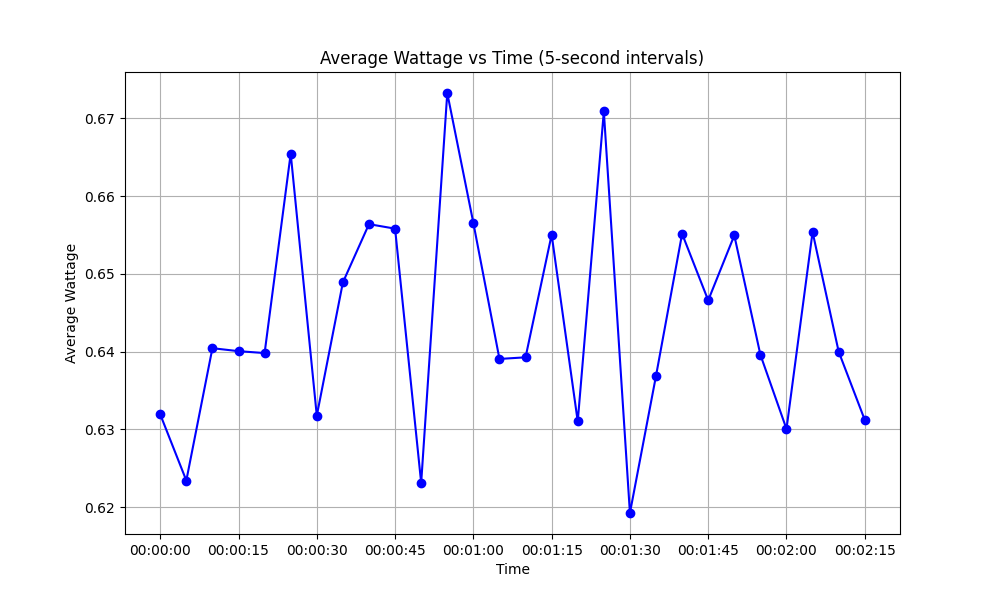
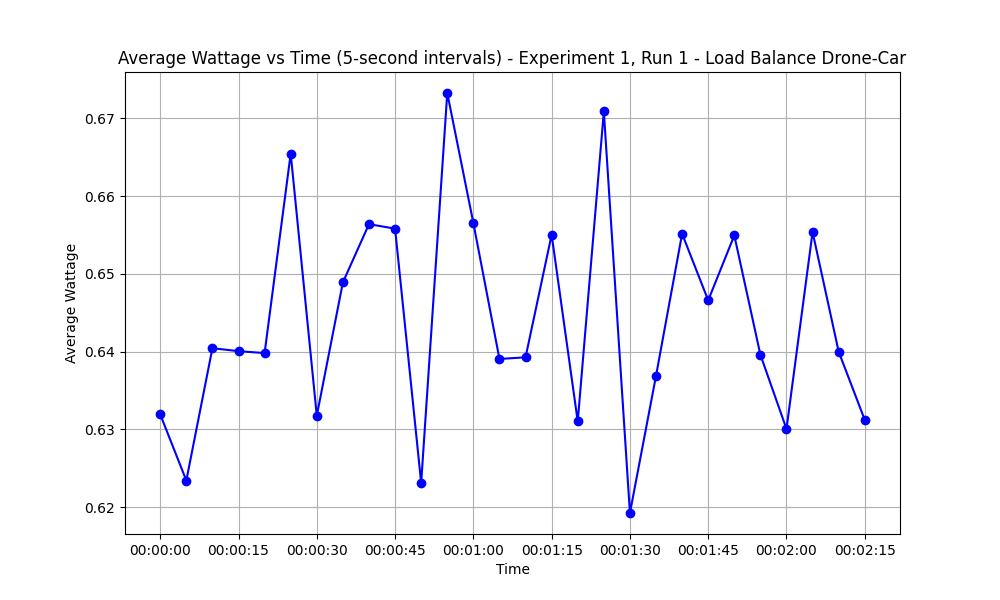
updated graphs

Changed region(s): [[0.124, 0.09, 0.899, 0.12]]

diff --git a/Experiment Data Analysis/Experiment 1 - load balance - 7 objects - red-yellow-blue/run 2/battery_wattage_filtering.py b/Experiment Data Analysis/Experiment 1 - load balance - 7 objects - red-yellow-blue/run 2/battery_wattage_filtering.py
@@ -5,7 +5,8 @@ from matplotlib.ticker import FormatStrFormatter
 #part 1: filter
 
 # Define the path to the input CSV file
-csv_file_path = r"C:\Users\demet\Documents\GitHub\Drone-Car-Collaboration\Experiment Data Analysis\filtering\battery_data.csv"
+csv_file_path = r"C:\Users\demet\Documents\GitHub\Drone-Car-Collaboration\Experiment Data Analysis\Experiment 1 - load balance - 7 objects - red-yellow-blue\run 2\battery_data_2023-07-23_13-30-37.csv"
+
 
 # Read the CSV file into a pandas DataFrame
 df = pd.read_csv(csv_file_path)
@@ -22,7 +23,7 @@ initial_timestamp = filtered_df.loc[0, 'Stamp_secs'] + filtered_df.loc[0, 'Stamp
 filtered_df['Timestamp'] = filtered_df.apply(lambda row: (row['Stamp_secs'] + row['Stamp_nsecs'] * 1e-9) - initial_timestamp, axis=1)
 
 # Define the path to the output CSV file
-output_csv_file_path = r"C:\Users\demet\Documents\GitHub\Drone-Car-Collaboration\Experiment Data Analysis\filtering\filtered_data_with_wattage.csv"
+output_csv_file_path =r"C:\Users\demet\Documents\GitHub\Drone-Car-Collaboration\Experiment Data Analysis\Experiment 1 - load balance - 7 objects - red-yellow-blue\run 2\battery_data_2023-07-23_13-30-37-FILTERED.csv"
 
 # Save the filtered data with adjusted timestamps and wattage to the output CSV file
 adjusted_filtered_df = filtered_df[['Seq', 'Timestamp', 'Wattage']]  # Select relevant columns
@@ -42,7 +43,7 @@ plt.figure(figsize=(10, 6))
 plt.plot(adjusted_filtered_df['Timestamp'], adjusted_filtered_df['Wattage'], marker='o', linestyle='-', color='b')
 plt.xlabel('Time (seconds)')
 plt.ylabel('Wattage')
-plt.title('Wattage vs Time')
+plt.title('Wattage vs Time - Experiment 1, Run 2 - Load Balance Drone-Car')
 plt.grid()
 
 # Format x and y tick labels with 4 decimal places
@@ -68,7 +69,7 @@ plt.figure(figsize=(10, 6))
 plt.plot(resampled_df.index, resampled_df['Wattage'], marker='o', linestyle='-', color='b')
 plt.xlabel('Time')
 plt.ylabel('Average Wattage')
-plt.title('Average Wattage vs Time (5-second intervals)')
+plt.title('Average Wattage vs Time (5-second intervals) - Experiment 1, Run 2 - Load Balance Drone-Car')
 plt.grid()
 
 # Format x tick labels with date and time format

diff --git a/Experiment Data Analysis/Experiment 1 - load balance - 7 objects - red-yellow-blue/run 2/ping_rtt_filtering.py b/Experiment Data Analysis/Experiment 1 - load balance - 7 objects - red-yellow-blue/run 2/ping_rtt_filtering.py
@@ -34,7 +34,7 @@ def read_rtt_data(file_path):
     return rtt_min_values, rtt_avg_values, rtt_max_values
 
 # File path (Please change this to the actual location of your data file)
-file_path = "C:\\Users\\demet\\Documents\\GitHub\\Drone-Car-Collaboration\\Experiment Data Analysis\\filtering\\ping_rtt_data.txt"
+file_path = r"C:\Users\demet\Documents\GitHub\Drone-Car-Collaboration\Experiment Data Analysis\Experiment 1 - load balance - 7 objects - red-yellow-blue\run 2\ping_results_2023-07-23_12-42-02.txt"
 
 # Read RTT data
 rtt_min, rtt_avg, rtt_max = read_rtt_data(file_path)
@@ -53,7 +53,7 @@ plt.plot(agg_rtt_avg, label='Avg RTT (Aggregated)')
 
 plt.xlabel('Ping Index (Aggregated)')
 plt.ylabel('RTT (ms)')
-plt.title('Aggregated RTT Data Analysis')
+plt.title('Aggregated RTT Data Analysis - Experiment 1, Run 2 - Load Balance Drone-Car')
 plt.legend()
 plt.grid(True)
 plt.show()

diff --git a/Experiment Data Analysis/Experiment 1 - load balance - 7 objects - red-yellow-blue/run 2/iperf3_bandwidth_filtering.py b/Experiment Data Analysis/Experiment 1 - load balance - 7 objects - red-yellow-blue/run 2/iperf3_bandwidth_filtering.py
@@ -43,7 +43,7 @@ def plot_iperf3_data(df):
     # Add labels and title
     plt.xlabel('Interval (sec)')
     plt.ylabel('Value')
-    plt.title('Iperf3 Data: Interval vs Transfer and Bitrate')
+    plt.title('Iperf3 Data: Interval vs Transfer and Bitrate - Experiment 1, Run 2 - Load Balance Drone-Car')
 
     # Add a legend
     plt.legend()
@@ -52,6 +52,6 @@ def plot_iperf3_data(df):
     plt.show()
 
 if __name__ == "__main__":
-    file_path = r'C:\Users\demet\Documents\GitHub\Drone-Car-Collaboration\Experiment Data Analysis\filtering\iperf3_data.txt'  # Replace with your file path
+    file_path = r"C:\Users\demet\Documents\GitHub\Drone-Car-Collaboration\Experiment Data Analysis\Experiment 1 - load balance - 7 objects - red-yellow-blue\run 2\iperf3_TCP_Test_server.txt"
     df = read_iperf3_data(file_path)
     plot_iperf3_data(df)

diff --git a/Experiment Data Analysis/Experiment 1 - load balance - 7 objects - red-yellow-blue/run 1/battery_wattage_filtering.py b/Experiment Data Analysis/Experiment 1 - load balance - 7 objects - red-yellow-blue/run 1/battery_wattage_filtering.py
@@ -43,7 +43,7 @@ plt.figure(figsize=(10, 6))
 plt.plot(adjusted_filtered_df['Timestamp'], adjusted_filtered_df['Wattage'], marker='o', linestyle='-', color='b')
 plt.xlabel('Time (seconds)')
 plt.ylabel('Wattage')
-plt.title('Wattage vs Time')
+plt.title('Wattage vs Time - Experiment 1, Run 1 - Load Balance Drone-Car')
 plt.grid()
 
 # Format x and y tick labels with 4 decimal places
@@ -69,7 +69,7 @@ plt.figure(figsize=(10, 6))
 plt.plot(resampled_df.index, resampled_df['Wattage'], marker='o', linestyle='-', color='b')
 plt.xlabel('Time')
 plt.ylabel('Average Wattage')
-plt.title('Average Wattage vs Time (5-second intervals)')
+plt.title('Average Wattage vs Time (5-second intervals) - Experiment 1, Run 1 - Load Balance Drone-Car')
 plt.grid()
 
 # Format x tick labels with date and time format
